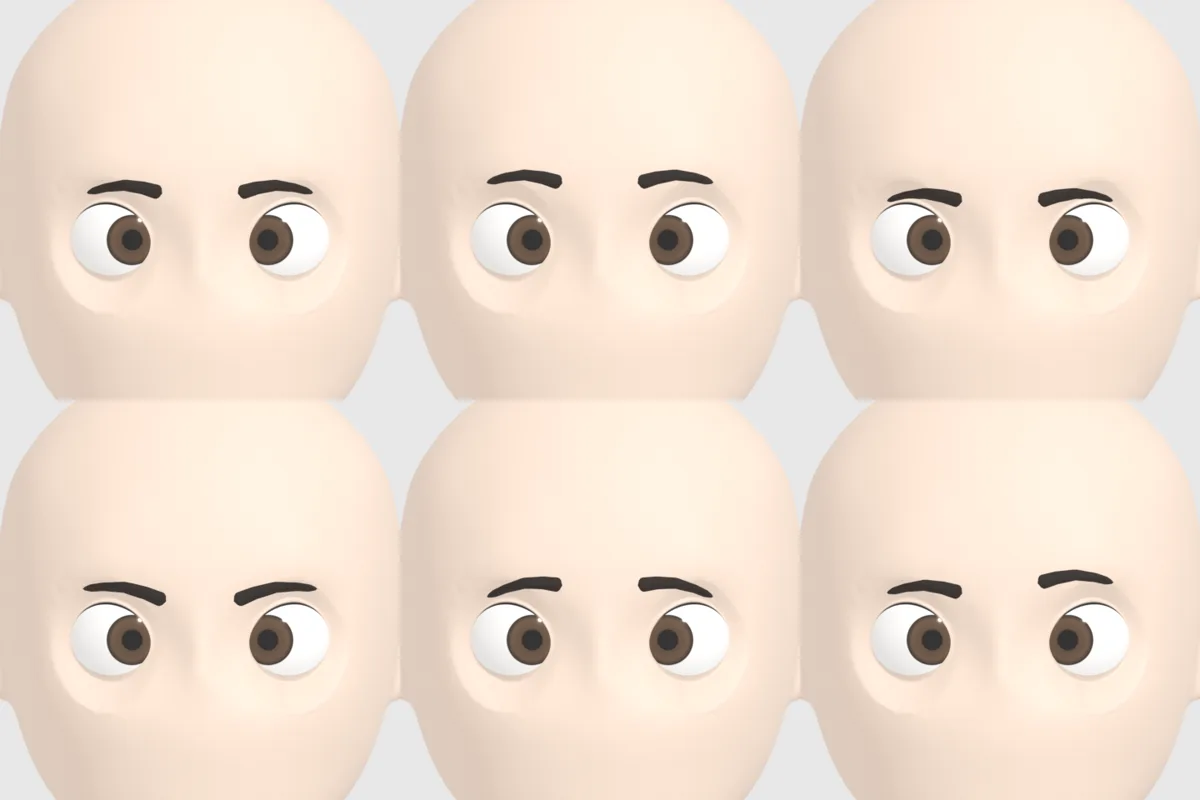
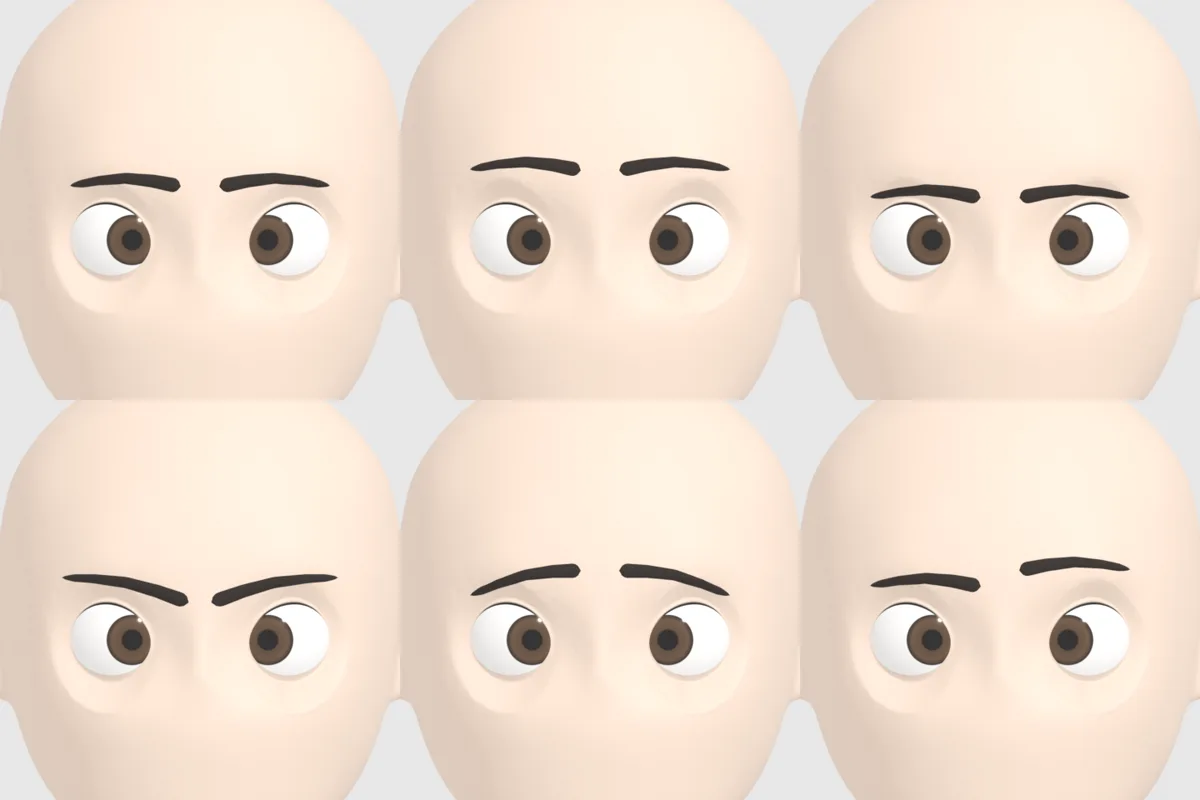
fix(nam-003): mày dài phủ qua vòng hốc mắt (56 mm), biểu cảm mày mạnh hơn (nhướn 8 mm, cau/buồn rõ)

diff --git a/assets/nhan-vat-3d/nam-003/may3d_nam003.py b/assets/nhan-vat-3d/nam-003/may3d_nam003.py
@@ -16,7 +16,7 @@ DAY = 0.0058        # bề dày mày chuẩn (m) ở đầu trong
 NOI = 0.0005        # mày nổi trên da
 PHONG = 0.0010      # mày phồng giữa theo bề ngang
 NS, NW = 40, 7      # số điểm dọc mày, số điểm ngang
-BIEN = 0.005        # biên độ dịch khi nhướn/hạ (m)
+BIEN = 0.008        # biên độ dịch khi nhướn/hạ (m)
 PROPS = ('may_nhuong', 'may_ha', 'may_cau', 'may_buon', 'may_trai_nhuong', 'may_phai_nhuong')
 
 
@@ -24,9 +24,9 @@ def _duong(moc, p, side, dz_trong=0.0, dz_duoi=0.0, dz=0.0, dx_trong=0.0):
     """Đường giữa mày (NS×2: x, z) và bề dày (NS)."""
     mx, _, mz = moc['mat']; a = moc['r_hoc'] * p['mat_rong']; b = a * p['mat_cao']; r = moc['r_hoc']
     s = np.linspace(0, 1, NS)
-    x = mx - 0.85 * a + dx_trong * (1 - s) + s * (1.85 * a - dx_trong)
+    x = mx - 1.30 * a + dx_trong * (1 - s) + s * (2.70 * a - dx_trong)          # phủ qua vòng hốc mắt (lỗ khoét ~1,3a)
     h = np.interp(s, np.linspace(0, 1, 5), p['may_dang'])
-    z = mz + b + r * h + dz + dz_trong * (1 - s) + dz_duoi * s
+    z = mz + 1.20 * b + r * h + dz + dz_trong * (1 - s) + dz_duoi * s
     w = p['may_day'] * DAY * (1.0 - 0.55 * s) * np.clip(np.minimum(s / 0.06, (1 - s) / 0.10), 0, 1) ** 0.5
     return side * x, z, w
 
@@ -58,9 +58,9 @@ def tao_may(sc, arm, body, moc, p):
         if np.cross(co[q[1]] - co[q[0]], co[q[2]] - co[q[0]])[1] > 0: f = [t[::-1] for t in f]   # pháp tuyến hướng −Y (ra trước)
         ob = M3._tao_mesh(f'LongMay.{sfx}', co, f, mat, sc)
         ob.shape_key_add(name='Basis')
-        khoa = dict(nhuong=dict(dz=BIEN), ha=dict(dz=-0.8 * BIEN),
-                    cau=dict(dz_trong=-0.8 * BIEN, dz_duoi=0.4 * BIEN, dx_trong=-0.002),
-                    buon=dict(dz_trong=0.8 * BIEN, dz_duoi=-0.4 * BIEN))
+        khoa = dict(nhuong=dict(dz=BIEN), ha=dict(dz=-0.7 * BIEN),
+                    cau=dict(dz_trong=-1.0 * BIEN, dz_duoi=0.5 * BIEN, dx_trong=-0.004),
+                    buon=dict(dz_trong=1.0 * BIEN, dz_duoi=-0.6 * BIEN))
         for kn, kw in khoa.items():
             k = ob.shape_key_add(name=kn); k.data.foreach_set('co', _dai(bvh, *_duong(moc, p, side, **kw)).ravel())
         kb = ob.data.shape_keys.key_blocks
